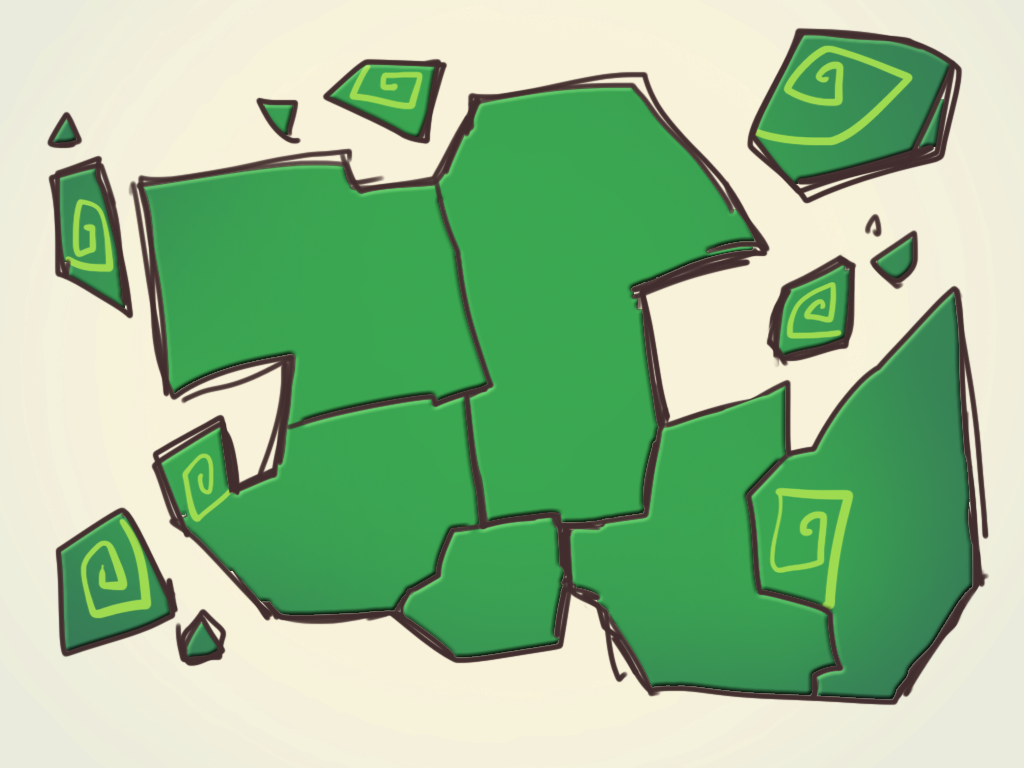
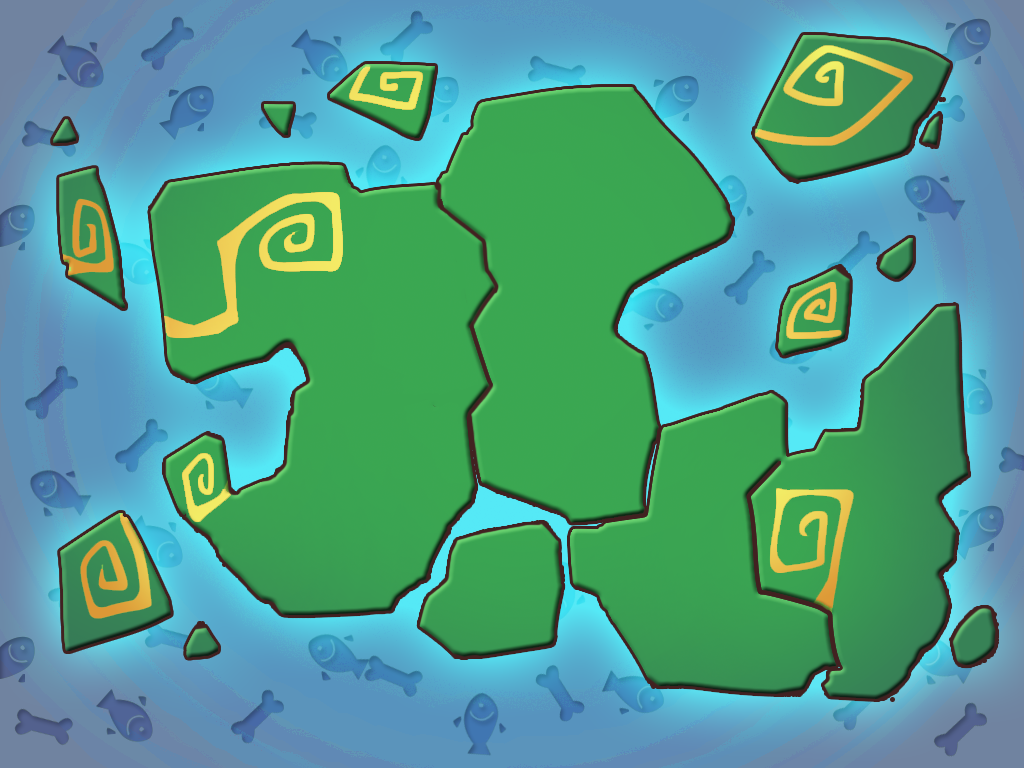
update fight bacdground

diff --git a/projects/CardGame/Resources/CardGroup.js b/projects/CardGame/Resources/CardGroup.js
@@ -4,18 +4,28 @@ var CardGroup = cc.Layer.extend({
 	_gallery: null,
 	init:function(){
 		if (this._super()){
+			this.initLayer();
 			
 			var cardGallery = new GalleryLayer(); 
 			cardGallery.init();
 			cardGallery.setPosition(cc.p(0, -85));
 			this.addChild(cardGallery);
-			this.initLayer();
 			this._gallery = cardGallery;
 			return true;
 		}
 		return false;
 	},
 	initLayer:function(){
+		// set background image
+		var background = cc.Sprite.create(IMG.bgLoading);
+		background.setPosition(VisibleRect.center());
+		this.addChild(background);
+
+		var size = VisibleRect.rect();
+		var bgColor = cc.LayerColor.create(cc.c4b(0, 0, 0, 175), size.width, size.height);
+		this.addChild(bgColor);
+		
+		
 		var itemImgBack = cc.MenuItemImage.create(IMG.btn.Back, IMG.btn.BackPress, function(){
 			cc.Director.getInstance().replaceScene(GameLayer.scene());
 		}, this);
@@ -29,7 +39,7 @@ var CardGroup = cc.Layer.extend({
 		menu.setPosition(cc.p(0, 0));
 		this.addChild(menu);
 		var CardGroup = cc.Scale9Sprite.create(IMG.cardGroup);
-		CardGroup.setContentSize(cc.size(800, 160));
+		CardGroup.setContentSize(cc.size(880, 180));
 		var dogFace1 = cc.Sprite.create(IMG.dogFace["001"]);
 		var dogFace2 = cc.Sprite.create(IMG.dogFace["002"]);
 		var dogFace3 = cc.Sprite.create(IMG.dogFace["003"]);
@@ -37,7 +47,6 @@ var CardGroup = cc.Layer.extend({
 		var dogFace5 = cc.Sprite.create(IMG.dogFace["005"]);
 
 		CardGroup.setPosition(cc.p(450, 650));
-		CardGroup.setScaleX(1.1);
 		dogFace1.setPosition(cc.p(100, 650));
 		dogFace2.setPosition(cc.p(275, 650));
 		dogFace3.setPosition(cc.p(450, 650));
@@ -50,7 +59,6 @@ var CardGroup = cc.Layer.extend({
 		this.addChild(dogFace3);
 		this.addChild(dogFace4);
 		this.addChild(dogFace5);
-		
 
 		return;
 	}
@@ -86,7 +94,8 @@ var GalleryLayer = cc.Layer.extend({
 			this._cardHeight = 290;
 			this._contentSize = VisibleRect.winSize();
 			// this._contentSize = cc.size(1024, 768 / 2);
-			
+
+			// card group test data
 			var json = cc.FileUtils.getInstance().getStringFromFile("json/cardGroup.json");
 			var cards = JSON.parse(json).cards;
 			

diff --git a/projects/CardGame/Resources/Login.js b/projects/CardGame/Resources/Login.js
@@ -242,23 +242,16 @@ var LoginLayer = cc.Layer.extend({
 			this.winSize = cc.Director.getInstance().getWinSize();
 			this.initLayer();
 
-			if(Socket.getInstance().init(this)){
-				Gm.getInstance().loading(this);				
-			}
+			var user = Gm.getInstance().getCacheLoginUser();
+			this._loginName.setText(user.Username);
+			this._loginPwd.setText(user.Password);
+
+			// if(Socket.getInstance().init()){
+				// Gm.getInstance().loading(this);				
+			// }
+			
 		}
 		return true;
-	},
-	onOpen:function(){
-		cc.log("login on open .");
-		Gm.getInstance().unLoading();
-
-		// get user cache
-		var user = Gm.getInstance().getCacheLoginUser();
-		this._loginName.setText(user.Username);
-		this._loginPwd.setText(user.Password);
-	},
-	onError:function(){
-		cc.log("login on error .");		
 	},
 	initLayer:function(){
 		var backGround = cc.Sprite.create(IMG.loginBackGround);
@@ -357,6 +350,43 @@ var LoginLayer = cc.Layer.extend({
 		this._showMessage.setString(text ? text: "");
 	}		
 });
+
+var LoadingLayer = cc.Layer.extend({
+	init:function(){
+		if (this._super()){
+			var background = cc.Sprite.create(IMG.bgLoading);
+			background.setPosition(VisibleRect.center());
+			this.addChild(background);
+
+			// socket connect test
+			if(Socket.getInstance().init(this)){
+				Gm.getInstance().loading(this);				
+			}
+			return true;
+		}
+		return false;
+	},
+	onOpen:function(){
+		cc.log("login on open .");
+		Gm.getInstance().unLoading();
+		
+		cc.Director.getInstance().replaceScene(LoginLayer.scene());
+	},
+	onError:function(){
+		cc.log("login on error .");		
+	},
+	onClose:function(){
+		
+	}
+});
+
+LoadingLayer.scene = function(){
+	var scene = cc.Scene.create();
+	var layer = new LoadingLayer();
+	layer.init();
+	scene.addChild(layer);
+	return scene;
+};
 
 
 LoginLayer.scene = function(){

diff --git a/projects/CardGame/Resources/Common.js b/projects/CardGame/Resources/Common.js
@@ -16,8 +16,10 @@ IMG.loadingBg = "loading_bg.png";
 IMG.editBox = "edit_box.png";
 IMG.loginBox = "login_box.png";
 
-IMG.bgMain = "bg_instance.png";
+IMG.bgMain = "bg_main.png";
 IMG.bgInstance = "bg_instance.png";
+IMG.bgLoading = "bg_loading.png";
+IMG.bgFight = "bg_fight.png";
 
 IMG.btn = {
 	"Login": "btn_login.png",
@@ -419,6 +421,7 @@ var ModeLayer = cc.Layer.extend({
 	_delegate: null,
 	init:function(delegate){
 		this._delegate = delegate;
+		return true;
 	},
 	onEnter:function(){
 		cc.registerTargettedDelegate(cc.MENU_HANDLER_PRIORITY, true, this);
@@ -438,7 +441,7 @@ var ModeLayer = cc.Layer.extend({
 	}
 });
 
-var LoadingLayer = ModeLayer.extend({
+var LoadingMode = ModeLayer.extend({
 	init:function(){
 		if (this._super()){
 			var loadingBg = cc.Sprite.create(IMG.loadingBg);
@@ -452,6 +455,7 @@ var LoadingLayer = ModeLayer.extend({
 			var action = cc.RotateBy.create(2, 360);
 			loading.runAction(cc.RepeatForever.create(action));
 		}
+		return true;
 	}
 });
 

diff --git a/projects/CardGame/Resources/Fight.js b/projects/CardGame/Resources/Fight.js
@@ -16,6 +16,11 @@ var FightLayer = cc.Layer.extend({
 		if (this._super()){
 			this._bgOffset = cc.size(98, 92);
 
+			// set bacground
+			var background = cc.Sprite.create(IMG.bgFight);
+			background.setPosition(VisibleRect.center());
+			this.addChild(background);
+
 			// test start combat
 			// var json = cc.FileUtils.getInstance().getStringFromFile("json/combat.json");
 			this._combat = combat;
@@ -136,7 +141,7 @@ var FightLayer = cc.Layer.extend({
 		var fightBackground = cc.Sprite.create(IMG.fightBackground);
 		var cs = fightBackground.getContentSize();
 		this._bgSize = cs;
-		this._nFight = cc.LayerColor.create(cc.c4b(255, 0, 0, 100), cs.width, cs.height);
+		this._nFight = cc.LayerColor.create(cc.c4b(255, 0, 0, 0), cs.width, cs.height);
 		this._nFight.setAnchorPoint(cc.p(0.5 ,0));
 
 		this._animalNode = cc.Node.create();

diff --git a/projects/CardGame/Resources/Game.js b/projects/CardGame/Resources/Game.js
@@ -32,10 +32,10 @@ var GameLayer = cc.Layer.extend({
 			cc.Director.getInstance().replaceScene(CardGroup.scene());
 		}, this);
 		
-		itemImgInstance.setPosition(cc.pAdd(VisibleRect.topRight(), cc.p(-200, -200)));
-		itemImgShop.setPosition(cc.pAdd(VisibleRect.bottomRight(), cc.p(-180, 180)));
+		itemImgInstance.setPosition(cc.pAdd(VisibleRect.center(), cc.p(270, 170)));
+		itemImgShop.setPosition(cc.pAdd(VisibleRect.center(), cc.p(180, -150)));
 		itemImgCardUpgrade.setPosition(cc.pAdd(VisibleRect.center(), cc.p(-220, 90)));
-		itemImgCardGroup.setPosition(cc.pAdd(VisibleRect.center(), cc.p(-150, -200)));
+		itemImgCardGroup.setPosition(cc.pAdd(VisibleRect.center(), cc.p(-300, -160)));
 
 		var menu = cc.Menu.create(itemImgInstance, itemImgShop, itemImgCardUpgrade, itemImgCardGroup);
 		menu.setPosition(cc.p(0, 0));

diff --git a/projects/CardGame/Resources/main.js b/projects/CardGame/Resources/main.js
@@ -40,19 +40,11 @@ require("Utile.js");
 
 
 try{
-	// var uri = "172.100.104.204:1234";
-	// var uri = "172.100.104.192:1234";
 	var uri = "115.28.12.75:1234";
-	// var uri = "ws://localhost:8082/echo;
 	Socket.getInstance().setUri(uri);
 	director = cc.Director.getInstance();
-	// director.runWithScene(GameLayer.scene());
-	director.runWithScene(LoginLayer.scene());
-	// director.runWithScene(FightLayer.scene());
-	// director.runWithScene(CharacterLayer.scene());
-
-	var winSize = VisibleRect.winSize();
-	cc.log("winSize width: " + winSize.width + " height: " + winSize.height);
+	director.runWithScene(LoadingLayer.scene());
+	// director.runWithScene(LoginLayer.scene());
 }catch(e){
 	cc.log(e);
 }

diff --git a/projects/CardGame/Resources/Socket.js b/projects/CardGame/Resources/Socket.js
@@ -19,14 +19,18 @@ var Socket = cc.Class.extend({
 			this._webSocket = new WebSocket(this._uri);
 			this._webSocket.onopen = function(){
 				cc.log("ws:onopen websocket uri:" + this._uri);
-				delegate.onOpen();
+				if (delegate)
+					delegate.onOpen();
 			};
 			this._webSocket.onerror = function(evt){
 				cc.log("ws:onerror:" + evt.data);
-				delegate.onError();
+				if (delegate)				
+					delegate.onError();
 			},
 			this._webSocket.onclose = function(evt){
 				cc.log("ws:onclose:" + evt.data);
+				if (delegate)				
+					delegate.onClose();
 			},
 			this._webSocket.onmessage = this.onmessage;
 			return true;

diff --git a/projects/CardGame/Resources/Card.js b/projects/CardGame/Resources/Card.js
@@ -259,7 +259,7 @@ var Card = cc.Node.extend({
 
 		status.setPosition(cc.p(0, -70));
 		pLevel.setPosition(cc.p(42, 78));
-		pHp.setPosition(cc.p(72, 150));
+		pHp.setPosition(cc.p(70, 148));
 		pHp.setScaleX(1);
 		pHp.setAnchorPoint(cc.p(0, 0.5));
 		this._nHp = pHp;

diff --git a/projects/CardGame/Resources/GameManager.js b/projects/CardGame/Resources/GameManager.js
@@ -17,7 +17,7 @@ var Gm = cc.Class.extend({
 	},
 	loading:function(node){
 		if (!this._loadingParent){
-			var layer = new LoadingLayer();
+			var layer = new LoadingMode();
 			layer.init();
 			node.addChild(layer);
 			this._loadingNode = layer;

diff --git a/projects/CardGame/Classes/AppDelegate.cpp b/projects/CardGame/Classes/AppDelegate.cpp
@@ -42,7 +42,7 @@ bool AppDelegate::applicationDidFinishLaunching()
     
     
     // turn on display FPS
-    pDirector->setDisplayStats(true);
+//    pDirector->setDisplayStats(true);
     
     // set FPS. the default value is 1.0/60 if you don't call this
     pDirector->setAnimationInterval(1.0 / 60);
